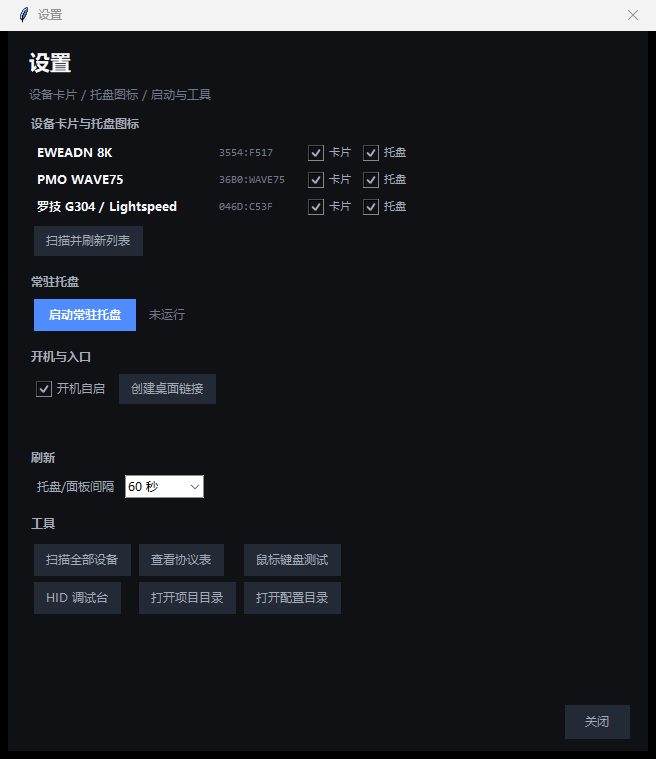
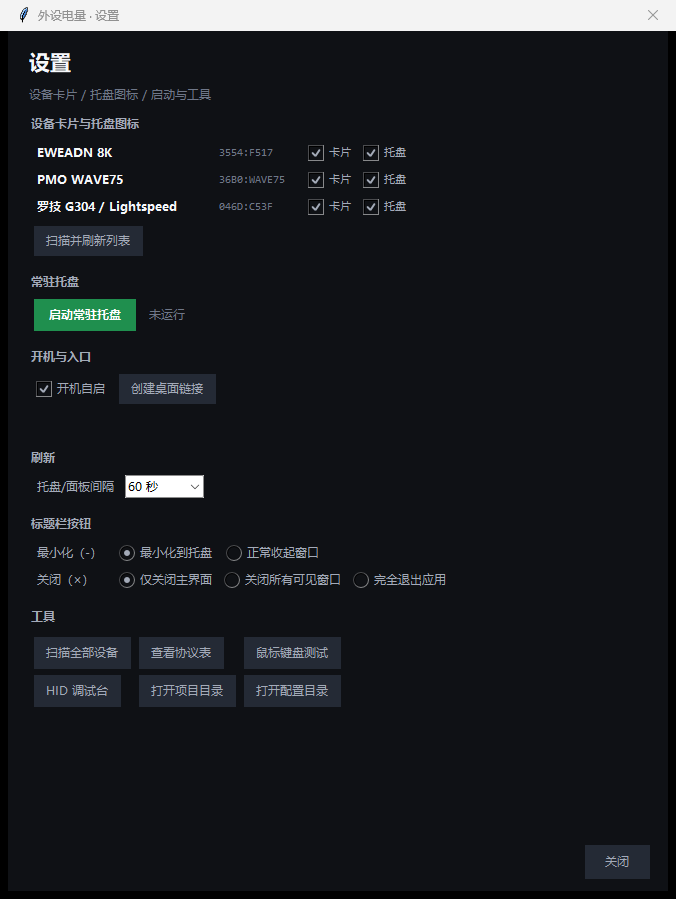
移除底栏最小化/退出按钮，设置中配置标题栏最小化与关闭行为

diff --git a/battery_panel.py b/battery_panel.py
@@ -174,7 +174,7 @@ class BatteryPanel(tk.Tk):
         self.geometry("940x700")
         self.minsize(880, 620)
         self.configure(bg=BG)
-        self.protocol("WM_DELETE_WINDOW", self._on_close)
+        self.protocol("WM_DELETE_WINDOW", self._on_window_close)
 
         self._queue: queue.Queue = queue.Queue()
         self._ui_queue: queue.Queue = queue.Queue()
@@ -182,6 +182,8 @@ class BatteryPanel(tk.Tk):
         self._pending_refresh = False
         self._closing = False
         self._after_id = None
+        self._pump_id = None
+        self._poll_id = None
         self.snapshots: list[dr.DeviceSnapshot] = []
         self.cards: dict[str, DeviceCard] = {}
         self._tool_pids: set[int] = set()
@@ -198,8 +200,8 @@ class BatteryPanel(tk.Tk):
         self._hidden = False
         self._hiding = False
         self._hide_pending = False
-        self.after(300, self._poll_show)
-        self.after(100, self._pump)
+        self._poll_id = self.after(300, self._poll_show)
+        self._pump_id = self.after(100, self._pump)
         self.bind("<Unmap>", self._on_unmap)
         if demo:
             self._apply_snaps(self._demo_snaps)
@@ -261,25 +263,13 @@ class BatteryPanel(tk.Tk):
             selectcolor=BG, activebackground=BG, activeforeground=TEXT,
             font=("Microsoft YaHei UI", 9), bd=0, highlightthickness=0,
             command=self._schedule_next).pack(side="left", padx=(14, 0))
-        tk.Button(
-            bar, text="最小化", command=self._hide_to_tray,
-            bg="#d97706", fg="white", activebackground="#f59e0b",
-            activeforeground="white", relief="flat", bd=0,
-            font=("Microsoft YaHei UI", 9, "bold"), padx=12, pady=5,
-            cursor="hand2").pack(side="left", padx=(14, 0))
         self.tray_btn = tk.Button(
             bar, text="常驻托盘", command=self._toggle_tray,
             bg="#1f8f4e", fg="white", activebackground="#2ecc71",
             activeforeground="white", relief="flat", bd=0,
             font=("Microsoft YaHei UI", 9, "bold"), padx=12, pady=5,
             cursor="hand2")
-        self.tray_btn.pack(side="left", padx=(8, 0))
-        tk.Button(
-            bar, text="退出应用", command=self._exit_app,
-            bg="#5a2328", fg="#ffb4b4", activebackground="#7a2d34",
-            activeforeground="white", relief="flat", bd=0,
-            font=("Microsoft YaHei UI", 9, "bold"), padx=12, pady=5,
-            cursor="hand2").pack(side="left", padx=(8, 0))
+        self.tray_btn.pack(side="left", padx=(14, 0))
         self.status_dot = tk.Label(bar, text="●", bg=BG, fg=FAINT,
                                    font=("Microsoft YaHei UI", 9))
         self.status_dot.pack(side="right", padx=(0, 5))
@@ -355,7 +345,7 @@ class BatteryPanel(tk.Tk):
                     self.status_label.configure(text=payload, fg=FAINT)
         except queue.Empty:
             pass
-        self.after(100, self._pump)
+        self._pump_id = self.after(100, self._pump)
 
     def _apply_snaps(self, snaps):
         self._busy = False
@@ -435,8 +425,11 @@ class BatteryPanel(tk.Tk):
         self.after(2200, self._update_tray_button)
 
     def _on_unmap(self, _event=None):
-        """标题栏最小化/任务栏最小化也改成缩到托盘。"""
+        """标题栏最小化：按设置缩到托盘，或正常收起到任务栏。"""
         if self._closing or self._hidden or self._hide_pending:
+            return
+        mode = tc.load_config().get("window", {}).get("minimize", "tray")
+        if mode != "tray":
             return
         try:
             if self.state() == "iconic":
@@ -485,7 +478,7 @@ class BatteryPanel(tk.Tk):
                 self._hidden = False
             except tk.TclError:
                 pass
-        self.after(300, self._poll_show)
+        self._poll_id = self.after(300, self._poll_show)
 
     # ------------------------------------------------------------- 设置
     def _open_settings(self):
@@ -512,6 +505,26 @@ class BatteryPanel(tk.Tk):
         self._sync_cards()
 
     # ------------------------------------------------------------- 退出
+    def _close_all_visible(self):
+        """关闭主面板、设置/弹窗，以及由本应用打开的工具窗口；托盘保留。"""
+        self._stop_tools()
+        for child in list(self.winfo_children()):
+            if isinstance(child, tk.Toplevel):
+                try:
+                    child.destroy()
+                except tk.TclError:
+                    pass
+        self._on_close()
+
+    def _on_window_close(self):
+        mode = tc.load_config().get("window", {}).get("close", "current")
+        if mode == "exit":
+            self._exit_app()
+        elif mode == "all":
+            self._close_all_visible()
+        else:
+            self._on_close()
+
     def _stop_tools(self):
         for pid in list(self._tool_pids):
             try:
@@ -521,6 +534,16 @@ class BatteryPanel(tk.Tk):
                 pass
             self._tool_pids.discard(pid)
 
+    def _cancel_after(self):
+        for name in ("_after_id", "_pump_id", "_poll_id"):
+            aid = getattr(self, name, None)
+            if aid is not None:
+                try:
+                    self.after_cancel(aid)
+                except tk.TclError:
+                    pass
+                setattr(self, name, None)
+
     def _exit_app(self):
         if not messagebox.askyesno(
                 "退出应用",
@@ -529,12 +552,7 @@ class BatteryPanel(tk.Tk):
                 parent=self):
             return
         self._closing = True
-        if self._after_id is not None:
-            try:
-                self.after_cancel(self._after_id)
-            except tk.TclError:
-                pass
-            self._after_id = None
+        self._cancel_after()
         self._stop_tools()
         if tc.is_tray_running():
             tc.post_to_tray(tc.MSG_QUIT)
@@ -549,13 +567,9 @@ class BatteryPanel(tk.Tk):
 
     def _on_close(self):
         self._closing = True
+        self._cancel_after()
         tc.clear_panel_hwnd(self._hwnd)
         tc.consume_panel_show()
-        if self._after_id is not None:
-            try:
-                self.after_cancel(self._after_id)
-            except tk.TclError:
-                pass
         self.destroy()
 
     # ------------------------------------------------------------- demo
@@ -596,9 +610,9 @@ class SettingsWindow(tk.Toplevel):
         self.parent = parent
         self.demo = demo
         self.on_change = on_change
-        self.title("设置")
-        self.geometry("640x720")
-        self.minsize(600, 600)
+        self.title("外设电量 · 设置")
+        self.geometry("660x860")
+        self.minsize(620, 700)
         self.configure(bg=BG)
         self.transient(parent)
         self.device_vars = []
@@ -680,6 +694,43 @@ class SettingsWindow(tk.Toplevel):
                              font=("Microsoft YaHei UI", 9))
         combo.pack(side="left", padx=(8, 0))
         combo.bind("<<ComboboxSelected>>", lambda _e: self._interval_changed())
+
+        # 窗口按钮行为
+        win_box = tk.LabelFrame(body, text=" 标题栏按钮 ", bg=BG, fg=SUB, bd=0,
+                                font=("Microsoft YaHei UI", 9, "bold"))
+        win_box.pack(fill="x", pady=(0, 8))
+        win_cfg = tc.load_config().get("window", {})
+        self.min_mode = tk.StringVar(
+            value=win_cfg.get("minimize", "tray"))
+        self.close_mode = tk.StringVar(
+            value=win_cfg.get("close", "current"))
+        row = tk.Frame(win_box, bg=BG)
+        row.pack(fill="x", padx=8, pady=(8, 2))
+        tk.Label(row, text="最小化（-）", bg=BG, fg=SUB, width=11,
+                 anchor="w", font=("Microsoft YaHei UI", 9)).pack(side="left")
+        for text, value in (("最小化到托盘", "tray"),
+                            ("正常收起窗口", "taskbar")):
+            tk.Radiobutton(
+                row, text=text, variable=self.min_mode, value=value,
+                bg=BG, fg=SUB, selectcolor=BG, activebackground=BG,
+                activeforeground=TEXT, font=("Microsoft YaHei UI", 9),
+                bd=0, highlightthickness=0,
+                command=self._save_window_behavior).pack(side="left",
+                                                         padx=(0, 10))
+        row = tk.Frame(win_box, bg=BG)
+        row.pack(fill="x", padx=8, pady=(2, 8))
+        tk.Label(row, text="关闭（×）", bg=BG, fg=SUB, width=11,
+                 anchor="w", font=("Microsoft YaHei UI", 9)).pack(side="left")
+        for text, value in (("仅关闭主界面", "current"),
+                            ("关闭所有可见窗口", "all"),
+                            ("完全退出应用", "exit")):
+            tk.Radiobutton(
+                row, text=text, variable=self.close_mode, value=value,
+                bg=BG, fg=SUB, selectcolor=BG, activebackground=BG,
+                activeforeground=TEXT, font=("Microsoft YaHei UI", 9),
+                bd=0, highlightthickness=0,
+                command=self._save_window_behavior).pack(side="left",
+                                                         padx=(0, 8))
 
         # 工具
         tool_box = tk.LabelFrame(body, text=" 工具 ", bg=BG, fg=SUB, bd=0,
@@ -802,6 +853,15 @@ class SettingsWindow(tk.Toplevel):
         self.boot_msg.configure(
             text=f"桌面链接失败：{errors[0]}" if errors else "桌面链接已创建",
             fg=RED if errors else GREEN)
+
+    def _save_window_behavior(self):
+        cfg = tc.load_config()
+        cfg["window"] = {"minimize": self.min_mode.get(),
+                         "close": self.close_mode.get()}
+        tc.save_config(cfg)
+        self.boot_msg.configure(
+            text=f"窗口按钮：- → {self.min_mode.get()}，× → {self.close_mode.get()}",
+            fg=GREEN)
 
     def _interval_changed(self):
         seconds = INTERVALS.get(self.interval_var.get(), 60)

diff --git a/tray_common.py b/tray_common.py
@@ -51,6 +51,10 @@ DEFAULT_CONFIG = {
     "interval": 60,        # 托盘轮询间隔（秒）
     "autostart": True,     # 开机自启
     "devices": {},         # VID:PID -> {name, show, tray, order}
+    "window": {            # 主界面标题栏按钮行为
+        "minimize": "tray",    # tray / taskbar
+        "close": "current",    # current / all / exit
+    },
 }
 
 INTERVAL_CHOICES = [(30, "30 秒"), (60, "1 分钟"), (120, "2 分钟"),
@@ -84,6 +88,7 @@ USER32.GetWindowTextW.argtypes = [ctypes.c_void_p, wintypes.LPWSTR,
 # --------------------------------------------------------------------------
 def load_config() -> dict:
     cfg = dict(DEFAULT_CONFIG)
+    cfg["window"] = dict(DEFAULT_CONFIG["window"])
     path = CONFIG_PATH
     if not os.path.exists(path) and os.path.exists(LEGACY_CONFIG_PATH):
         path = LEGACY_CONFIG_PATH
@@ -92,7 +97,11 @@ def load_config() -> dict:
             data = json.load(f)
         if isinstance(data, dict):
             for k in DEFAULT_CONFIG:
-                if k in data:
+                if k not in data:
+                    continue
+                if k == "window" and isinstance(data[k], dict):
+                    cfg["window"].update(data[k])
+                else:
                     cfg[k] = data[k]
     except Exception:
         pass

diff --git a/README.md b/README.md
@@ -86,11 +86,12 @@ dist\WirelessHIDToolbox.exe
 - 卡片按设备动态生成，不再写死；右上角 **⚙ 设置** 逐设备选择
 - 所有卡片统一字段：**连接 / 充电 / 电压 / 数据源**
 - 大号百分比 + 进度条；休眠时显示灰色上次电量 + 上次更新时间
-- 底部：**立即刷新 / 自动刷新 / 最小化 / 常驻托盘 / 退出应用**
-- **退出应用**：弹窗确认后，结束本应用打开的测试/调试工具、通知托盘退出；
-  托盘没响应时按 PID 校验后兜底结束托盘进程，最后关闭面板
-- 「立即刷新」采用并行扫描 + 短超时，面板和托盘不会互相长时间阻塞
-- 标题栏最小化也会缩到托盘；隐藏前先标记状态并加启动锁，不会重复启动托盘/重复图标
+- 底部：**立即刷新 / 自动刷新 / 常驻托盘**
+- ⚙ 设置 → **标题栏按钮**：
+  - 最小化（-）：最小化到托盘 / 正常收起窗口（任务栏仍保留应用图标）
+  - 关闭（×）：仅关闭主界面 / 关闭所有可见窗口 / 完全退出应用（含托盘）
+- 完全退出会弹窗确认，并结束本应用打开的测试/调试工具与托盘
+- 标题栏最小化按设置执行；缩到托盘前先标记状态并加启动锁，不会重复启动托盘/重复图标
 
 ### 设置窗口
 
@@ -241,8 +242,8 @@ python -m unittest discover -s tests -v
 | `my_devices.py --once` | 鼠标 84%（缓存/唤醒后即时）+ 键盘 58% |
 | 主界面 | EWEADN / PMO / 罗技 G304 三张卡片，字段统一 |
 | 每设备托盘开关 | G304 关→`NIM_DELETE`，开→`NIM_ADD` |
-| 最小化到托盘 | 托盘未启动会先启动；点击托盘图标恢复 |
-| 退出应用 | 确认后托盘退出、测试子进程结束、面板关闭 |
+| 最小化设置 | 托盘模式隐藏到托盘；任务栏模式保持 `iconic`/任务栏图标 |
+| 关闭设置 | 仅主界面 / 所有可见窗口 / 完全退出（含托盘）均已验证 |
 | 托盘连续启停 3 次 | 3/3 成功，最终 `pythonw` 进程数 = 0 |
 | 开机自启 | `电量托盘.lnk`，任务管理器状态「已启用」 |
 | 桌面入口 | 源码版 symlink，exe 版 `.lnk` |
